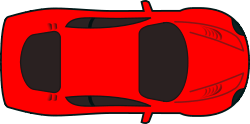
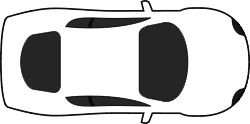
Added interchangeable color to Car and Garage

diff --git a/cars/src/main/java/dk/aau/cs/giraf/cars/framework/Graphics.java b/cars/src/main/java/dk/aau/cs/giraf/cars/framework/Graphics.java
@@ -9,6 +9,7 @@ import android.graphics.Bitmap.Config;
 import android.graphics.BitmapFactory;
 import android.graphics.BitmapFactory.Options;
 import android.graphics.Canvas;
+import android.graphics.Color;
 import android.graphics.Paint;
 import android.graphics.Paint.Style;
 import android.graphics.Rect;
@@ -65,14 +66,47 @@ public class Graphics {
             }
         }
 
-        if (bitmap.getConfig() == Config.RGB_565)
-            format = ImageFormat.RGB565;
-        else if (bitmap.getConfig() == Config.ARGB_4444)
-            format = ImageFormat.ARGB4444;
-        else
-            format = ImageFormat.ARGB8888;
+        format = getImageFormat(bitmap.getConfig());
 
         return new Image(bitmap, format);
+    }
+
+    public Image recolorImage(Image image, int newColor) {
+        int oldColor = Color.WHITE;
+
+        int[] pixels = new int [image.bitmap.getWidth() * image.bitmap.getHeight()];
+
+        image.bitmap.getPixels(
+                pixels,
+                0,
+                image.bitmap.getWidth(),
+                0,
+                0,
+                image.bitmap.getWidth(),
+                image.bitmap.getHeight()
+        );
+
+        for (int i = 0; i < image.bitmap.getWidth() * image.bitmap.getHeight(); i++)
+            if (pixels[i] == oldColor)
+                pixels[i] = newColor;
+
+        Bitmap recoloredBitmap = Bitmap.createBitmap(
+                pixels,
+                image.bitmap.getWidth(),
+                image.bitmap.getHeight(),
+                image.bitmap.getConfig()
+        );
+
+        return new Image(recoloredBitmap, getImageFormat(recoloredBitmap.getConfig()));
+    }
+
+    private ImageFormat getImageFormat(Config config) {
+        if (config == Config.RGB_565)
+            return ImageFormat.RGB565;
+        else if (config == Config.ARGB_4444)
+            return ImageFormat.ARGB4444;
+        else
+            return ImageFormat.ARGB8888;
     }
 
     public void clearScreen(int color) {

diff --git a/cars/src/main/java/dk/aau/cs/giraf/cars/game/GameScreen.java b/cars/src/main/java/dk/aau/cs/giraf/cars/game/GameScreen.java
@@ -4,6 +4,7 @@ import android.graphics.Color;
 import android.graphics.Paint;
 
 import java.util.ArrayList;
+import java.util.Random;
 
 import dk.aau.cs.giraf.cars.framework.Game;
 import dk.aau.cs.giraf.cars.framework.Screen;
@@ -13,6 +14,8 @@ public class GameScreen extends Screen {
     private CarControl carControl;
     private Car car;
     private float speed; //Pixels per second
+
+    private int[] colors;
 
     private ObstacleGenerator obstacleGenerator;
     private ArrayList<Obstacle> obstacles;
@@ -31,9 +34,15 @@ public class GameScreen extends Screen {
 
     public GameScreen(Game game, ObstacleGenerator obstacleGenerator) {
         super(game);
+
+        colors = new int[] { Color.BLUE, Color.RED, Color.GREEN };
+
         this.car = new Car(0, 0, 200, 99);
         this.car.x = -car.width;
         this.car.y = (game.getHeight() - car.height) / 2f;
+
+        Random r = new Random();
+        car.setColor(game.getGraphics(), colors[r.nextInt(colors.length)]);
 
         this.carControl = new TouchCarControl();
         this.speed = 70;
@@ -46,9 +55,11 @@ public class GameScreen extends Screen {
 
         this.garages = new ArrayList<Garage>();
         float garageSpace = (game.getHeight() - 2 * grassSize - 3 * garageSize) / 4f;
-        for (int i = 0; i < amountOfGarages; i++)
-            garages.add(new Garage(game.getWidth() - garageSize, grassSize + (i + 1) * garageSpace + i * garageSize, garageSize, garageSize));
-
+        for (int i = 0; i < amountOfGarages; i++) {
+            Garage g = new Garage(game.getWidth() - garageSize, grassSize + (i + 1) * garageSpace + i * garageSize, garageSize, garageSize);
+            g.setColor(game.getGraphics(), colors[i]);
+            garages.add(g);
+        }
         initializePaint();
         winningOverlay = new WinningOverlay();
     }

diff --git a/cars/src/main/java/dk/aau/cs/giraf/cars/game/Garage.java b/cars/src/main/java/dk/aau/cs/giraf/cars/game/Garage.java
@@ -3,6 +3,7 @@ package dk.aau.cs.giraf.cars.game;
 import android.graphics.Rect;
 
 import dk.aau.cs.giraf.cars.framework.Graphics;
+import dk.aau.cs.giraf.cars.framework.Image;
 
 public class Garage extends GameItem {
     private int partWidth;
@@ -10,17 +11,27 @@ public class Garage extends GameItem {
     private final float closingTime = 100;
     private float closingWait = 0;
 
+    int color;
+    Image image;
+
     public Garage(float x, float y, float width, float height) {
         super(x, y, width, height);
         this.partWidth = Assets.getGarage().getWidth() / 3;
         this.drawnPart = 0;
+
+        this.color = color;
+        this.image = Assets.getGarage();
+    }
+
+    public void setColor(Graphics graphics, int color) {
+        image = graphics.recolorImage(Assets.getGarage(), color);
     }
 
     @Override
     public void Paint(Graphics graphics, float deltaTime) {
         Rect bounds = this.GetBounds();
 
-        graphics.drawScaledImage(Assets.getGarage(),
+        graphics.drawScaledImage(image,
                 bounds.left, bounds.top, bounds.right - bounds.left, bounds.bottom - bounds.top,
                 drawnPart * partWidth, 0, partWidth, Assets.getGarage().getHeight());
     }

diff --git a/cars/src/main/java/dk/aau/cs/giraf/cars/game/Car.java b/cars/src/main/java/dk/aau/cs/giraf/cars/game/Car.java
@@ -1,23 +1,34 @@
 package dk.aau.cs.giraf.cars.game;
 
+import android.graphics.Color;
 import android.graphics.Rect;
 
 import dk.aau.cs.giraf.cars.framework.Graphics;
+import dk.aau.cs.giraf.cars.framework.Image;
 
 public class Car extends GameItem {
+    int color;
+    Image image;
+
     public Car(float width, float height)
     {
         this(0, 0, width, height);
     }
     public Car(float x, float y, float height, float width) {
         super(x, y, height, width);
+        this.image = Assets.GetCar();
+    }
+
+    public void setColor(Graphics graphics, int color) {
+        this.color = color;
+        this.image = graphics.recolorImage(Assets.GetCar(), color);
     }
 
     @Override
     public void Paint(Graphics graphics, float deltaTime) {
         Rect bounds = this.GetBounds();
 
-        graphics.drawScaledImage(Assets.GetCar(),
+        graphics.drawScaledImage(image,
                 bounds.left, bounds.top, bounds.right - bounds.left, bounds.bottom - bounds.top,
                 0, 0, Assets.GetCar().getWidth(), Assets.GetCar().getHeight());
     }
